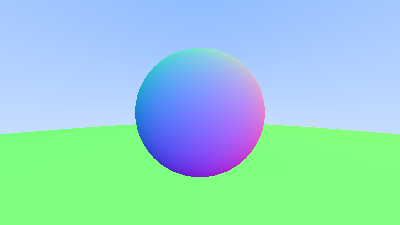
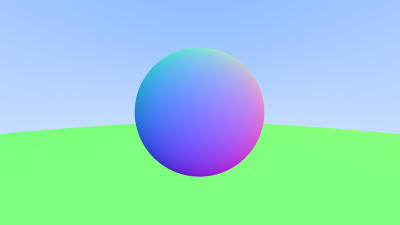
6.1

diff --git a/src/main.rs b/src/main.rs
@@ -13,6 +13,7 @@ fn main() {
     let aspect_ratio = 16.0 / 9.0;
     let img_width: u32 = 400;
     let img_height = (img_width as f64 / aspect_ratio) as u32;
+    let samples: u32 = 100;
 
     //camera and viewport
     let view_height = 2.0;
@@ -37,17 +38,20 @@ fn main() {
         .enumerate_pixels_mut()
         .par_bridge() // Rayon go brrrrrrr
         .for_each(|(i, j, px)| {
-            // Same loop body as before, but as an iterator
             //pixel coordinates as scalars from 0.0 <= t <= 1.0
-            let u = i as f64 / (img_width - 1) as f64;
-            let v = j as f64 / (img_height - 1) as f64;
+            //add a little randomness for antialiasing
+            let mut colour = v!(0);
+            for _ in 0..samples {
+                let u = (i as f64 + rand::random::<f64>()) / (img_width - 1) as f64;
+                let v = (j as f64 + rand::random::<f64>()) / (img_height - 1) as f64;
 
-            //the direction of the ray
-            //start at top left, then go horizontally scaled by u and vertically by v
-            let ray_direction: Vec3 = top_left + u * horizontal + v * vertical - origin;
-
+                //the direction of the ray
+                //start at top left, then go horizontally scaled by u and vertically by v
+                let ray_direction: Vec3 = top_left + u * horizontal + v * vertical - origin;
+                colour = colour + ray::colour(&objects, &Ray::new(origin, ray_direction));
+            }
             //save pixel colour to buffer
-            *px = ray::colour(&objects, &Ray::new(origin, ray_direction)).to_rgb();
+            *px = (colour / (samples as f64)).to_rgb();
         });
     buffer.save("render.png").expect("Could not save image");
 }
